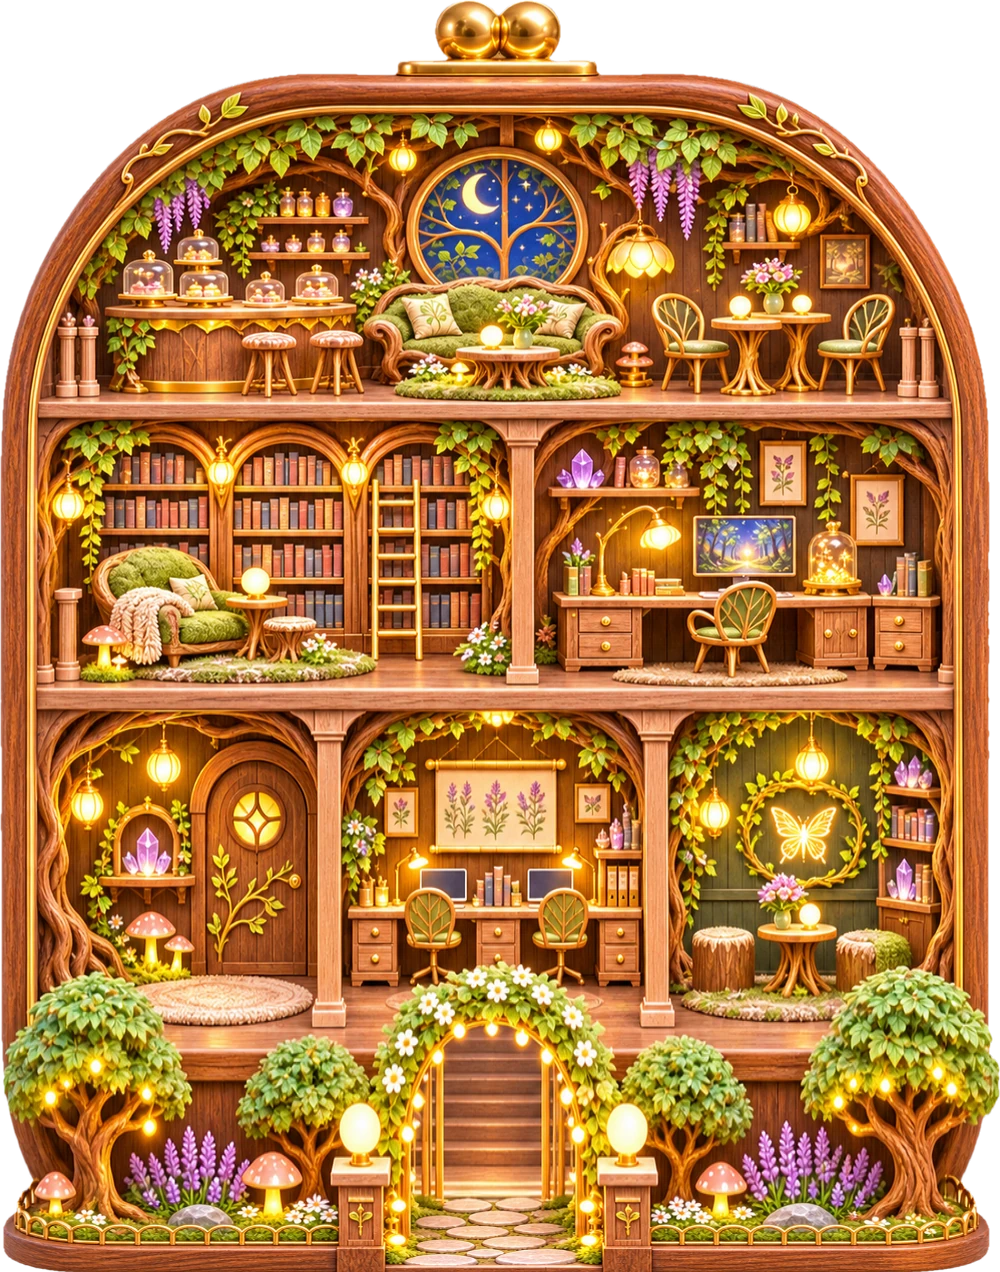
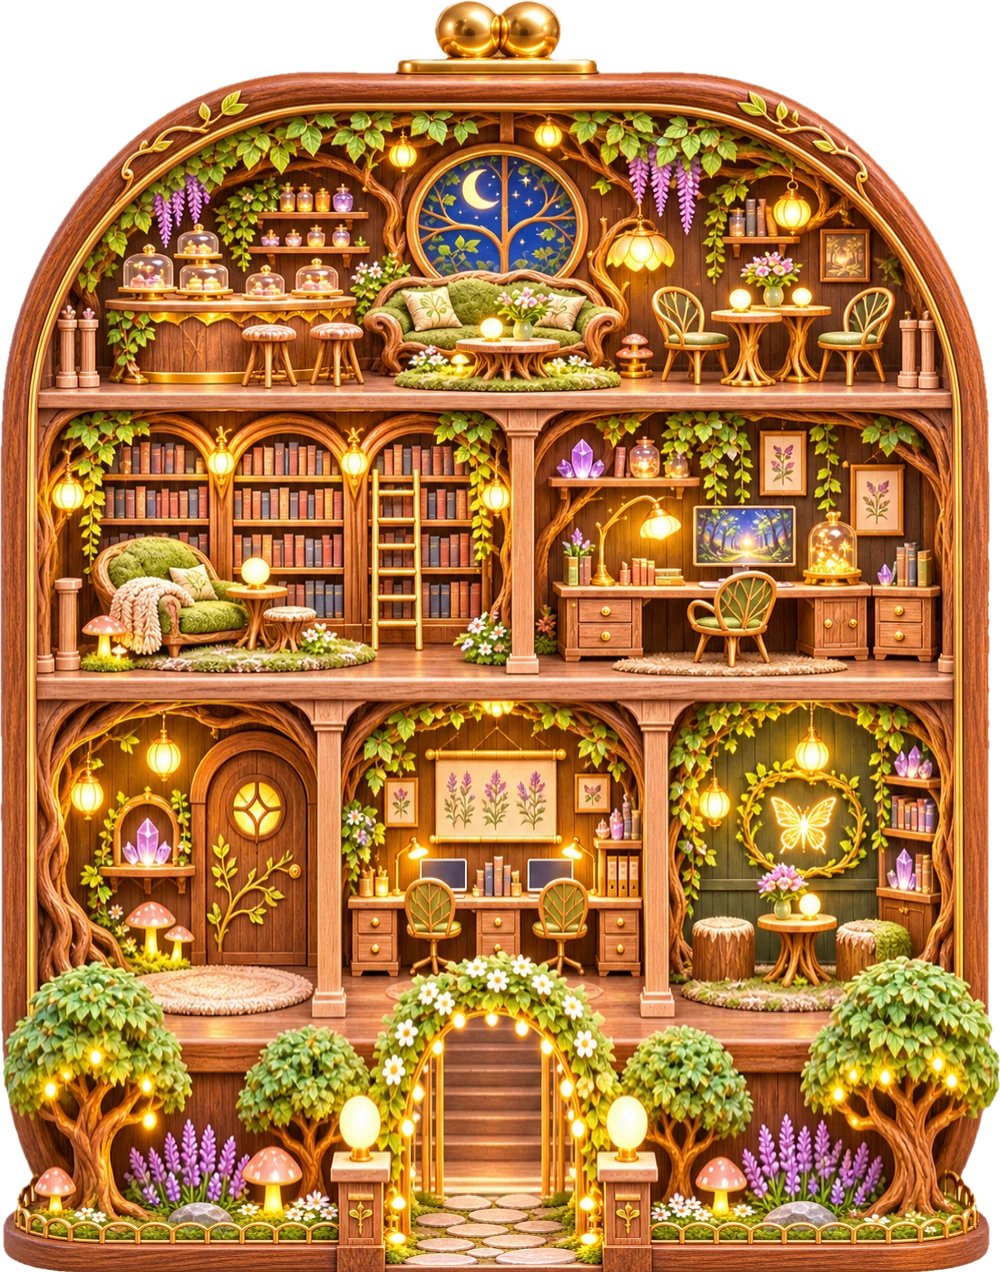
나무 하우스를 10 더 올려 2층 카펫이 '위 20' 선에 오게
Claude-Session: https://claude.ai/code/session_011wWXPaiuu8PZPFdYFKdKKY

diff --git a/tools/process_assets.py b/tools/process_assets.py
@@ -162,7 +162,7 @@ _OLD_SHIFT = {
     'wood': [(0, 0), (408, 9), (690, 14), (1002, -17), (1212, -62), (1272, -22)],
     'sea': [(0, 0), (408, -11), (690, -8), (1002, -17), (1212, -62), (1272, -22)],
 }
-_RUG_MOVE = {'wood': (2, 2, 4), 'sea': (-16, -21, -27)}
+_RUG_MOVE = {'wood': (12, 12, 14), 'sea': (-16, -21, -27)}
 
 
 def _skin_shift(key):
